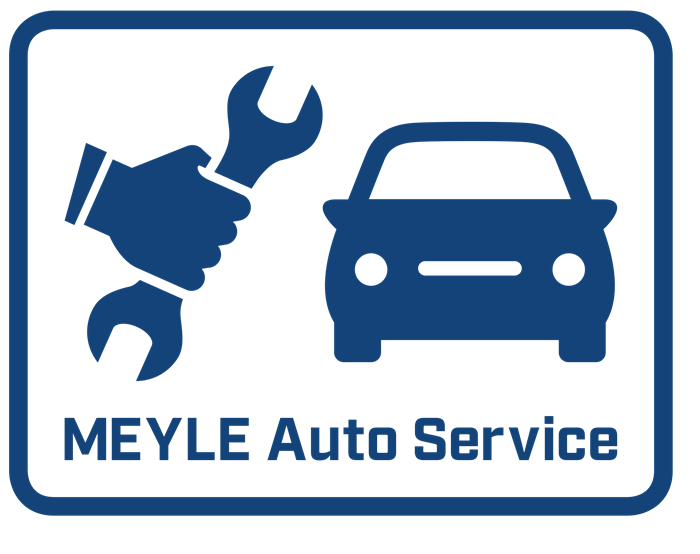
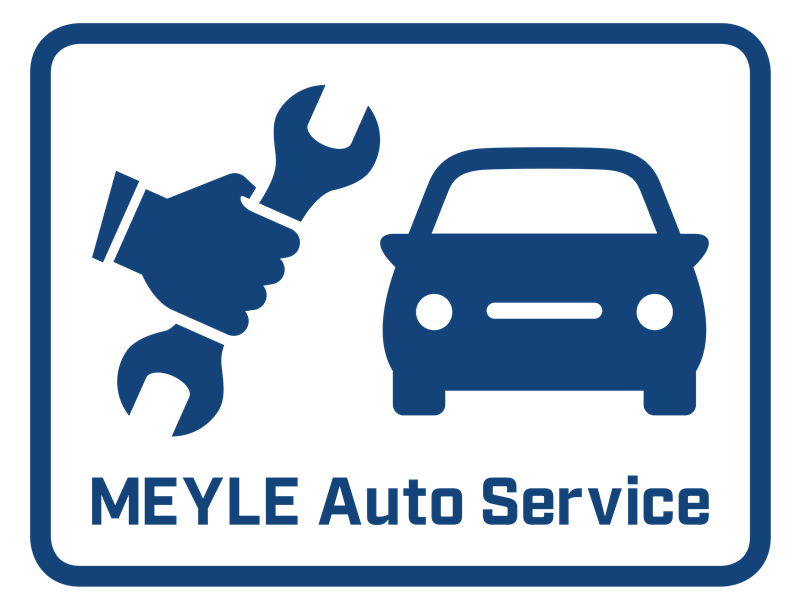
Polish hero, MEYLE sections, points, benefits, and contact form
- Header symbol: re-crop with symmetric padding to preserve true
  aspect ratio (previous crop had uneven margins)
- Stats: text left / bar chart right layout, headline line breaks
  for more impactful "1,000여 점 감소" / "약 2.5배 차이"
- MEYLE intro: drop dash from title, add requested line breaks,
  center the HD/PD/ORIGINAL badge icons under their labels
- MEYLE Auto Service: add requested line breaks throughout the
  intro copy, swap 01 card photo for the new KakaoTalk training
  shot (tone-matched to the site's cooler palette), crop the
  판교직영센터 render tighter on the building
- 창업 포인트: pictograms enlarged into a real design feature
- 창업 혜택: distinct new crops for 물품/홍보 cards, promote the
  interior-support banner to a highlighted "혜택 4" with its own
  accent border and a "창업 문의" CTA
- Contact form: two-column field layout so it doesn't run long

diff --git a/index.html b/index.html
@@ -59,31 +59,39 @@
 
     <div class="container stats">
       <div class="stat-card">
-        <p class="stat-card__label">서울 기준 자동차 정비소</p>
-        <p class="stat-card__headline">5년 전 대비 약 <strong class="accent-turquoise">1,000</strong>여 점 감소</p>
-        <div class="bar-chart" role="img" aria-label="자동차 정비소 수, 2018년 2700곳에서 2023년 1700곳으로 감소">
-          <div class="bar-chart__col">
-            <div class="bar-chart__bar" data-target="2700" style="--h:100%"><span class="bar-chart__value">2,700</span></div>
-            <span class="bar-chart__axis">2018</span>
+        <div class="stat-card__row">
+          <div class="stat-card__text">
+            <p class="stat-card__label">서울 기준 자동차 정비소</p>
+            <p class="stat-card__headline">5년 전 대비<br>약 <strong class="accent-turquoise">1,000</strong>여 점 감소</p>
           </div>
-          <div class="bar-chart__col">
-            <div class="bar-chart__bar bar-chart__bar--accent" data-target="1700" style="--h:63%"><span class="bar-chart__value">1,700</span></div>
-            <span class="bar-chart__axis">2023</span>
+          <div class="bar-chart" role="img" aria-label="자동차 정비소 수, 2018년 2700곳에서 2023년 1700곳으로 감소">
+            <div class="bar-chart__col">
+              <div class="bar-chart__bar" data-target="2700" style="--h:100%"><span class="bar-chart__value">2,700</span></div>
+              <span class="bar-chart__axis">2018</span>
+            </div>
+            <div class="bar-chart__col">
+              <div class="bar-chart__bar bar-chart__bar--accent" data-target="1700" style="--h:63%"><span class="bar-chart__value">1,700</span></div>
+              <span class="bar-chart__axis">2023</span>
+            </div>
           </div>
         </div>
       </div>
 
       <div class="stat-card">
-        <p class="stat-card__label">국산차·수입차 정비 비용 비교 (평균 수리비)</p>
-        <p class="stat-card__headline">국산차 ↔ 수입차 약 <strong class="accent-turquoise">2.5배</strong> 차이</p>
-        <div class="bar-chart" role="img" aria-label="평균 수리비, 국산차 114만원, 수입차 282만원, 약 2.5배 차이">
-          <div class="bar-chart__col">
-            <div class="bar-chart__bar" data-target="1140000" data-suffix="원" style="--h:40%"><span class="bar-chart__value">1,140,000원</span></div>
-            <span class="bar-chart__axis">국산차</span>
+        <div class="stat-card__row">
+          <div class="stat-card__text">
+            <p class="stat-card__label">국산차·수입차 정비 비용 비교 (평균 수리비)</p>
+            <p class="stat-card__headline">국산차 ↔ 수입차<br>약 <strong class="accent-turquoise">2.5배</strong> 차이</p>
           </div>
-          <div class="bar-chart__col">
-            <div class="bar-chart__bar bar-chart__bar--accent" data-target="2820000" data-suffix="원" style="--h:100%"><span class="bar-chart__value">2,820,000원</span></div>
-            <span class="bar-chart__axis">수입차</span>
+          <div class="bar-chart" role="img" aria-label="평균 수리비, 국산차 114만원, 수입차 282만원, 약 2.5배 차이">
+            <div class="bar-chart__col">
+              <div class="bar-chart__bar" data-target="1140000" data-suffix="원" style="--h:40%"><span class="bar-chart__value">1,140,000원</span></div>
+              <span class="bar-chart__axis">국산차</span>
+            </div>
+            <div class="bar-chart__col">
+              <div class="bar-chart__bar bar-chart__bar--accent" data-target="2820000" data-suffix="원" style="--h:100%"><span class="bar-chart__value">2,820,000원</span></div>
+              <span class="bar-chart__axis">수입차</span>
+            </div>
           </div>
         </div>
         <p class="stat-card__note">※ 평균 기준</p>
@@ -96,15 +104,16 @@
     <div class="container split">
       <div class="split__text">
         <p class="eyebrow">애프터마켓 자동차 부품 브랜드</p>
-        <h2 class="section__title">MEYLE –<br>a strong brand!</h2>
+        <h2 class="section__title">MEYLE<br>a strong brand!</h2>
         <p class="body-lg">
-          마일레(MEYLE)는 독일에서 시작된 글로벌 자동차 애프터마켓 부품 브랜드로,
+          마일레(MEYLE)는 독일에서 시작된 글로벌 자동차 애프터마켓 부품 브랜드로,<br>
           1958년 설립 이후 축적된 기술력과 품질 노하우를 바탕으로
           전 세계 120여 개국에 프리미엄 자동차 부품을 공급하고 있습니다.
         </p>
         <p class="body">
           약 24,000여 종의 다양한 부품과 엄격한 품질 테스트를 통해 검증된 성능으로
-          전 세계 수입차 정비 시장에서 높은 신뢰를 구축하고 있으며,
+          전 세계 수입차 정비 시장에서<br>
+          높은 신뢰를 구축하고 있으며,
           지속적인 연구개발과 품질 관리를 통해 고객과 정비 현장이 모두 신뢰할 수 있는
           브랜드 가치를 만들어가고 있습니다.
         </p>
@@ -143,10 +152,11 @@
           대한민국 수입차 정비 시장의 리더로 나아갑니다.
         </p>
         <p class="body">
-          마일레 오토 서비스는 2015년 1호점 오픈 이후 국내 최초 수입차 정비 전문 네트워크 브랜드로 성장해온
-          프리미엄 수입차 정비 서비스 브랜드입니다. 독일 글로벌 애프터마켓 브랜드 MEYLE의 기술력과
-          약 24,000여 종 부품 공급 시스템을 기반으로 수입차 정비에 필요한 전문 솔루션을 제공합니다.
-          체계적인 운영 시스템과 전문 기술 교육, 검증된 부품 및 표준화된 정비 프로세스를 통해
+          마일레 오토 서비스는 2015년 1호점 오픈 이후<br>
+          국내 최초 수입차 정비 전문 네트워크 브랜드로 성장해온 프리미엄 수입차 정비 서비스 브랜드입니다.<br>
+          독일 글로벌 애프터마켓 브랜드 MEYLE의 기술력과<br>
+          약 24,000여 종 부품 공급 시스템을 기반으로 수입차 정비에 필요한 전문 솔루션을 제공합니다.<br>
+          체계적인 운영 시스템과 전문 기술 교육, 검증된 부품 및 표준화된 정비 프로세스를 통해<br>
           전국 어디서나 높은 수준의 정비 서비스를 제공합니다.
         </p>
       </div>
@@ -411,7 +421,7 @@
         </article>
         <article class="benefit-card">
           <div class="benefit-card__media">
-            <img src="assets/img/feature-parts.jpg" alt="가맹점 운영 및 판촉 물품" loading="lazy">
+            <img src="assets/img/benefit-goods.jpg" alt="가맹점 운영 및 판촉 물품" loading="lazy">
             <span class="benefit-card__num">혜택 2</span>
           </div>
           <h3 class="benefit-card__title">물품</h3>
@@ -423,7 +433,7 @@
         </article>
         <article class="benefit-card">
           <div class="benefit-card__media">
-            <img src="assets/img/feature-marketing.jpg" alt="SNS 및 온라인 브랜드 홍보" loading="lazy">
+            <img src="assets/img/benefit-promo.jpg" alt="SNS 및 온라인 브랜드 홍보" loading="lazy">
             <span class="benefit-card__num">혜택 3</span>
           </div>
           <h3 class="benefit-card__title">홍보</h3>
@@ -436,9 +446,10 @@
       </div>
 
       <div class="promo-banner">
+        <span class="promo-banner__num">혜택 4</span>
         <p class="promo-banner__title">인테리어 지원 프로모션</p>
         <p class="promo-banner__desc">창업 상담을 통해 인테리어 지원 프로모션을 진행합니다. (상담 후 선발 방식)</p>
-        <a class="btn btn--outline-light btn--sm" href="#contact">프로모션 상담 신청</a>
+        <a class="btn btn--accent" href="#contact">창업 문의</a>
       </div>
     </div>
   </section>
@@ -473,68 +484,70 @@
       <form class="contact-form" id="contactForm" novalidate>
         <p class="contact-form__title">가맹 상담 신청</p>
 
-        <div class="form-row">
-          <label for="cf-name">성함 <span aria-hidden="true">*</span></label>
-          <input type="text" id="cf-name" name="name" required autocomplete="name">
-        </div>
+        <div class="contact-form__grid">
+          <div class="form-row">
+            <label for="cf-name">성함 <span aria-hidden="true">*</span></label>
+            <input type="text" id="cf-name" name="name" required autocomplete="name">
+          </div>
 
-        <div class="form-row">
-          <label for="cf-age">연령</label>
-          <select id="cf-age" name="age">
-            <option value="">선택</option>
-            <option>20대</option>
-            <option>30대</option>
-            <option>40대</option>
-            <option>50대</option>
-            <option>60대 이상</option>
-          </select>
-        </div>
+          <div class="form-row">
+            <label for="cf-age">연령</label>
+            <select id="cf-age" name="age">
+              <option value="">선택</option>
+              <option>20대</option>
+              <option>30대</option>
+              <option>40대</option>
+              <option>50대</option>
+              <option>60대 이상</option>
+            </select>
+          </div>
 
-        <div class="form-row">
-          <label for="cf-phone">연락처 <span aria-hidden="true">*</span></label>
-          <input type="tel" id="cf-phone" name="phone" required autocomplete="tel" placeholder="010-0000-0000">
-        </div>
+          <div class="form-row">
+            <label for="cf-phone">연락처 <span aria-hidden="true">*</span></label>
+            <input type="tel" id="cf-phone" name="phone" required autocomplete="tel" placeholder="010-0000-0000">
+          </div>
 
-        <div class="form-row">
-          <label for="cf-email">이메일주소 <span aria-hidden="true">*</span></label>
-          <input type="email" id="cf-email" name="email" required autocomplete="email" placeholder="example@email.com">
-        </div>
+          <div class="form-row">
+            <label for="cf-email">이메일주소 <span aria-hidden="true">*</span></label>
+            <input type="email" id="cf-email" name="email" required autocomplete="email" placeholder="example@email.com">
+          </div>
 
-        <div class="form-row">
-          <label for="cf-region">희망 지역</label>
-          <input type="text" id="cf-region" name="region" placeholder="예: 경기 성남시">
-        </div>
+          <div class="form-row">
+            <label for="cf-region">희망 지역</label>
+            <input type="text" id="cf-region" name="region" placeholder="예: 경기 성남시">
+          </div>
 
-        <div class="form-row">
-          <label for="cf-timing">희망시기</label>
-          <select id="cf-timing" name="timing">
-            <option value="">선택</option>
-            <option>즉시</option>
-            <option>1개월 이내</option>
-            <option>3개월 이내</option>
-            <option>6개월 이내</option>
-            <option>1년 이내</option>
-            <option>1년 이후</option>
-          </select>
-        </div>
+          <div class="form-row">
+            <label for="cf-timing">희망시기</label>
+            <select id="cf-timing" name="timing">
+              <option value="">선택</option>
+              <option>즉시</option>
+              <option>1개월 이내</option>
+              <option>3개월 이내</option>
+              <option>6개월 이내</option>
+              <option>1년 이내</option>
+              <option>1년 이후</option>
+            </select>
+          </div>
 
-        <div class="form-row">
-          <label for="cf-operating">현재 정비소 운영 여부</label>
-          <select id="cf-operating" name="operating">
-            <option value="">선택</option>
-            <option>운영 중</option>
-            <option>운영 예정</option>
-            <option>미운영</option>
-          </select>
-        </div>
+          <div class="form-row">
+            <label for="cf-operating">현재 정비소 운영 여부</label>
+            <select id="cf-operating" name="operating">
+              <option value="">선택</option>
+              <option>운영 중</option>
+              <option>운영 예정</option>
+              <option>미운영</option>
+            </select>
+          </div>
 
-        <div class="form-row">
-          <label for="cf-experience">수입차 정비 경력 유무</label>
-          <select id="cf-experience" name="experience">
-            <option value="">선택</option>
-            <option>있음</option>
-            <option>없음</option>
-          </select>
+          <div class="form-row">
+            <label for="cf-experience">수입차 정비 경력 유무</label>
+            <select id="cf-experience" name="experience">
+              <option value="">선택</option>
+              <option>있음</option>
+              <option>없음</option>
+            </select>
+          </div>
         </div>
 
         <div class="form-row">

diff --git a/assets/css/styles.css b/assets/css/styles.css
@@ -282,6 +282,16 @@ table { border-collapse: collapse; width: 100%; }
   padding: 28px;
   backdrop-filter: blur(6px);
 }
+.stat-card__row {
+  display: flex;
+  flex-direction: column;
+  gap: 24px;
+}
+@media (min-width: 520px) {
+  .stat-card__row { flex-direction: row; align-items: center; justify-content: space-between; gap: 20px; }
+  .stat-card__text { flex: 1; }
+  .bar-chart { flex-shrink: 0; }
+}
 .stat-card__label { font-size: 13px; color: rgba(255, 255, 255, 0.7); font-weight: 600; }
 .stat-card__headline { margin-top: 10px; font-size: clamp(22px, 3vw, 28px); font-weight: 800; line-height: 1.3; }
 .stat-card__headline strong { font-size: 1.35em; }
@@ -290,7 +300,6 @@ table { border-collapse: collapse; width: 100%; }
 #revenue .stat-card__note { color: var(--c-ink-soft); }
 
 .bar-chart {
-  margin-top: 24px;
   display: flex;
   align-items: flex-end;
   gap: 28px;
@@ -348,7 +357,7 @@ table { border-collapse: collapse; width: 100%; }
   width: 76px;
   height: 76px;
   object-fit: contain;
-  margin-bottom: 12px;
+  margin: 0 auto 12px;
 }
 .badge-row__title { font-weight: 800; font-size: 14px; color: var(--c-blue); }
 .badge-row__desc { margin-top: 6px; font-size: 12px; color: var(--c-ink-soft); line-height: 1.6; }
@@ -478,10 +487,13 @@ table { border-collapse: collapse; width: 100%; }
   margin-bottom: 18px;
 }
 .point-item__icon {
-  width: 76px;
-  height: 76px;
+  width: 140px;
+  height: 140px;
   object-fit: contain;
-  margin-bottom: 22px;
+  margin-bottom: 24px;
+}
+@media (min-width: 640px) {
+  .point-item__icon { width: 168px; height: 168px; }
 }
 .point-item__title { font-size: 20px; font-weight: 800; color: var(--c-blue); }
 .point-item__sub { margin-top: 6px; font-size: 13px; font-weight: 700; color: var(--c-coral); }
@@ -572,13 +584,26 @@ table { border-collapse: collapse; width: 100%; }
 .promo-banner {
   background: linear-gradient(120deg, var(--c-blue), var(--c-dark-blue));
   color: var(--c-white);
-  border-radius: 14px;
-  padding: 36px 32px;
+  border-radius: 18px;
+  padding: 48px 32px;
   text-align: center;
+  border: 2px solid var(--c-coral);
+  box-shadow: 0 20px 48px rgba(255, 120, 73, 0.22);
 }
-.promo-banner__title { font-weight: 800; font-size: 13px; letter-spacing: 0.08em; text-transform: uppercase; color: var(--c-turquoise); }
-.promo-banner__desc { margin-top: 10px; font-size: 15px; line-height: 1.7; }
-.promo-banner .btn { margin-top: 20px; }
+.promo-banner__num {
+  display: inline-block;
+  padding: 6px 16px;
+  border-radius: 20px;
+  background: var(--c-coral);
+  color: var(--c-white);
+  font-size: 13px;
+  font-weight: 800;
+  letter-spacing: 0.04em;
+  margin-bottom: 16px;
+}
+.promo-banner__title { font-weight: 900; font-size: clamp(20px, 3vw, 26px); color: var(--c-white); }
+.promo-banner__desc { margin-top: 12px; font-size: 15px; line-height: 1.7; color: rgba(255, 255, 255, 0.85); }
+.promo-banner .btn { margin-top: 24px; }
 
 /* ---------- 창업 문의 ---------- */
 .contact-layout {
@@ -613,6 +638,12 @@ table { border-collapse: collapse; width: 100%; }
   color: var(--c-ink);
 }
 .contact-form__title { font-weight: 800; font-size: 18px; color: var(--c-blue); margin-bottom: 20px; }
+.contact-form__grid {
+  display: grid;
+  grid-template-columns: 1fr;
+  gap: 0 16px;
+}
+@media (min-width: 420px) { .contact-form__grid { grid-template-columns: 1fr 1fr; } }
 .form-row { margin-bottom: 18px; }
 .form-row label { display: block; font-size: 13px; font-weight: 700; margin-bottom: 8px; color: var(--c-ink); }
 .form-row input[type="text"],
